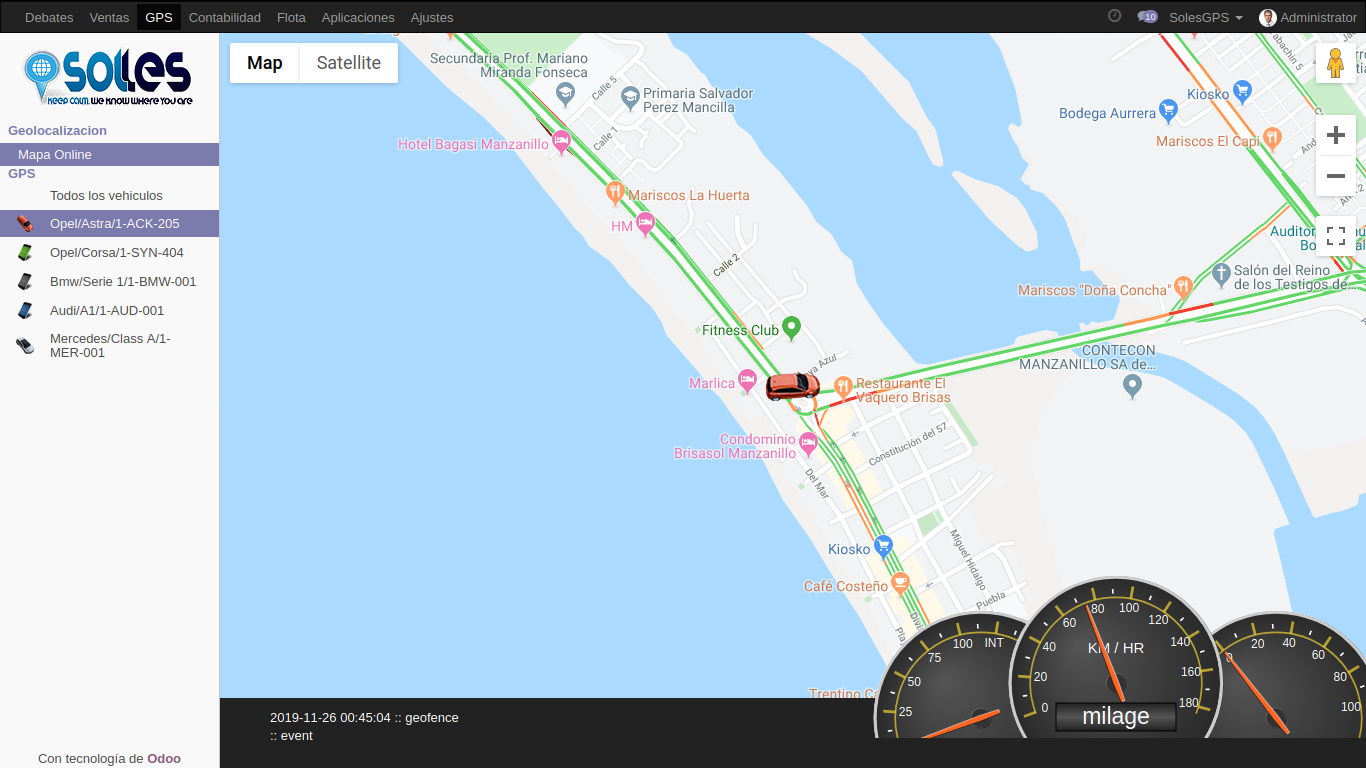
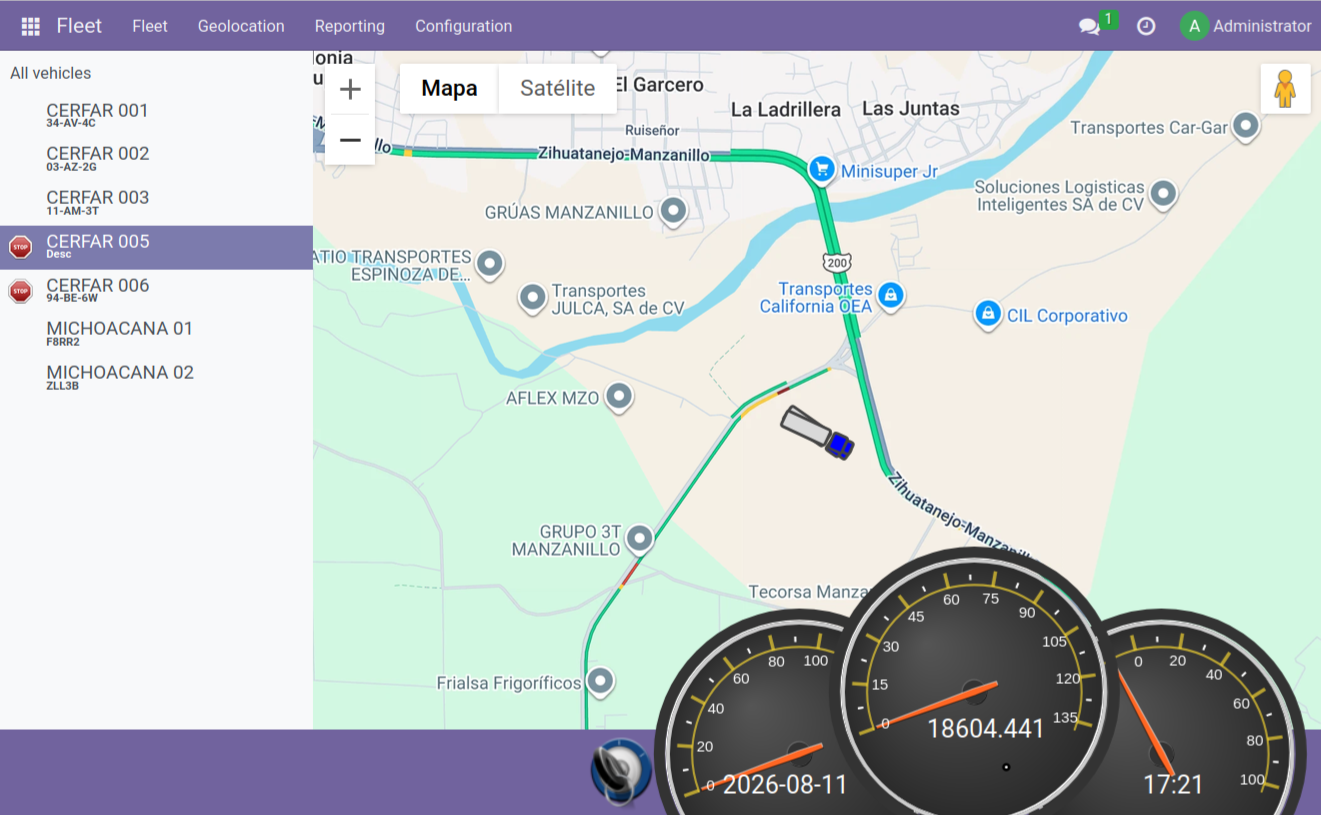
[UPD]gpsmap_geofence: htnl and images description

diff --git a/static/description/index.html b/static/description/index.html
@@ -1,58 +1,149 @@
-<section class="oe_container">
-    <div class="oe_row oe_spaced">
-        <h2 class="oe_slogan" style="color:#875A7B;">SolesGPS Map Online</h2>
-        <h3 class="oe_slogan">With this free module, see your GPS devices on the map, updating every minute.<br>
-            You can do a test with real GPS in the demo installation.</h3>
-        <div class="oe_span10">
-            <div style="text-align:center;" class="oe_demo oe_picture oe_screenshot">
-                <img src="map_online.png">
+<div style="color:#875A7B; font-size: 19px; font-weight: 380; text-align:justify; margin-left:100px; margin-right:100px;">
+    <div style="float: left;  width: 100%;">
+        <div style="margin-top:30px; font-size: 40px; font-weight: 400; text-align:justify;">
+            Vehicle tracking with GPSMap
+        </div>
+        <div style="margin-top:-13px; margin-bottom:20px;">
+            Transform Odoo into a powerful vehicle tracking and monitoring platform.
+        </div>
+        <div>
+            GPSMap integrates data from your GPS devices using Traccar as the communication platform, 
+            allowing you to view and manage all your fleet information, without navigating between 
+            multiple external platforms, all from a single location: your Odoo System.  
+        </div>
+        <div style="margin-top:10px;">
+            <img src="map_online.png" width="100%">
+        </div>
+    </div>
+    <div style="float: left;  width: 100%;">
+        <div style="margin-top:30px; font-size: 40px; font-weight: 400; text-align:justify;">
+            Map, Satellite and History View
+        </div>
+        <div style="margin-top:-13px; margin-bottom:20px;">
+            Much more than just a map: we have integrated Traccar functionality into Odoo.
+        </div>
+        <div>
+            Integrate fleet tracking using all our modules to locate your vehicles on a map(gpsmap), 
+            access interactive street views(gpsmap_street), manage geofences(gpsmap_geofence), 
+            review and replay historical routes(gpsmap_history), control engine cut-offs (gpsmap_engine), 
+            and access all critical information through a single interface: Odoo.
+        </div>
+        <div style="margin-top:10px;">
+            <div style="width: min(32%, 100%); float:inline-start; margin: 5px;"><img src="map_online.png" width="100%"> </div>
+            <div style="width: min(32%, 100%); float:inline-start; margin: 5px;"><img src="map_satellite.png" width="100%"> </div> 
+            <div style="width: min(32%, 100%); float:inline-start; margin: 5px;"><img src="map_history.png" width="100%"> </div>  
+        </div>
+    </div>
+    <div style="margin-top:30px; float: left; width: 100%;">
+        <div style="width: 49%; float:left; text-align:right; padding: 25px 5px;">
+            <div style="background-color: #eee; padding: 25px;">
+
+                <div style="font-size: 40px; font-weight: 400; ">
+                    Minute-by-minute
+                </div>
+                <div style="margin-top:-13px; margin-bottom:20px;">
+                    Check the data and make decisions quickly.
+                </div>
+                <div>
+
+                Current GPS position and movement < <br>
+                Routes taken and travel paths < <br>
+                Date, time, and vehicle status < <br>
+                Recorded GPS speed < <br>
+                Historical device data <             
+                    
+                </div>
+
+            </div>
+
+        </div>
+        <div style="width: 49%; float:left; text-align:left; padding: 25px 5px;">
+            <div style="background-color: #eee; padding: 25px;">
+
+                <div style="font-size: 40px; font-weight: 400; ">
+                    Requirements
+                </div>
+                <div style="margin-top:-13px; margin-bottom:20px;">
+                    Only those necessary for the module to function.
+                </div>
+                <div>
+                    > Odoo fleet module<br>
+                    > <a href="https://www.traccar.org/pricing/">Server or a Traccar access account</a>  <br>
+                    > <a href="https://www.traccar.org/devices/">GPS devices compatible with Traccar</a>  <br>
+                    > <a href="https://console.cloud.google.com/apis/credentials">Cloud Console account</a>  <br>
+                    > Enable Google Maps Platform APIs            
+                </div>
             </div>
         </div>
     </div>
-</section>
-
-<section class="oe_container oe_dark">
-    <div class="oe_row oe_spaced">
-        <h2 class="oe_slogan" style="color:#875A7B;">Map View and Satellite View</h2>
-        <div class="oe_span6">
-            <img class="oe_picture oe_screenshot" src="map_devices.png">
+    <div style="margin-top:30px; float: left; width: 100%;">
+        <div style="margin-top:30px; font-size: 40px; font-weight: 400; text-align:justify;">
+            Why GPSMap Needs Traccar?
         </div>
-        <div class="oe_span6">
-            <img class="oe_picture oe_screenshot" src="map_satellite.png">
+        <div style="margin-top:-13px; margin-bottom:0px;">
+            We use it as a communication platform for your GPS devices.
+        </div>
+
+        <div style="width: 49%; float:left; text-align:right; padding: 25px 5px;">
+            <div style="background-color: #eee; padding: 25px;">
+
+                <div style="font-size: 40px; font-weight: 400; ">
+                    Traccar how it works?
+                </div>
+                <div style="margin-top:-13px; margin-bottom:20px;">
+                    The process is very simple:
+                </div>
+                <div>
+
+                    GPS Device → Traccar → GPSMap → Odoo<br><br>
+
+                    Your GPS device obtains vehicle information.<br>
+                    The GPS sends the data to Traccar.<br>
+                    Traccar receives and processes the information.<br>
+                    GPSMap connects to Traccar.<br>
+                    GPSMap stores the data in Odoo.<br>                    
+
+                </div>
+
+            </div>
+
+        </div>
+        <div style="width: 49%; float:left; text-align:left; padding: 25px 5px;">
+            <div style="background-color: #eee; padding: 25px;">
+
+                <div style="font-size: 40px; font-weight: 400; ">
+                    Don't have a Traccar?
+                </div>
+                <div style="margin-top:-13px; margin-bottom:20px;">
+                    Don't worry! We offer you two options
+                </div>
+                <div>
+                    > We set up your server.<br>
+                    We offer VPSs with Traccar installed and configured, 
+                    ready to work with your GPS devices.<br><br>
+
+                    > Hire Traccar directly.<br>
+                    You can obtain Traccar from its official website.<br>
+                    https://www.traccar.org
+
+                </div>
+            </div>
         </div>
     </div>
-</section>
 
-<section class="oe_container oe_dark">
-    <div class="oe_row oe_spaced">
-        <h2 class="oe_slogan" style="color:#875A7B;">Locate the satellite coordinates</h2>
-        <h3 class="oe_slogan">
-            Migrate your GPS devices and locate satellite coordinates with time, date, speed, fuel, etc.             
-        </h3>
-    </div>
-</section>
-
-<section class="oe_container oe_dark">
-    <div class="oe_row oe_spaced">
-        <h2 class="oe_slogan" style="color:#875A7B;">Video demo	</h2>
-        <div class="oe_span6">
-            <iframe width="560" height="315" src="https://www.youtube.com/embed/7Coa-3JJzQk" frameborder="0" allow="accelerometer; autoplay; encrypted-media; gyroscope; picture-in-picture" allowfullscreen></iframe>
+    <div style="text-align:center; float: left;  width: 100%;">
+        <div style="margin-top:20px; font-size: 40px; font-weight: 400;">
+            Contact us
         </div>
-    </div>
-</section>
-
-<section class="oe_container oe_dark">
-    <div class="oe_row oe_spaced">
-        <h2 class="oe_slogan" style="color:#875A7B;">Contact us</h2>
-        <h3 class="oe_slogan">
+        <div style="margin-top:-13px; margin-bottom:20px;">
             For any inquiries/suggestions/difficulties please contact us directly: 
             <br>Eduardo Vizcaino Granados
             <br>e.vizcaino@solesgps.com
-            <br>+52 (314) 352 0972
-            <br>+52 (312) 454 9998
-        </h3>
+            <br>+52 (314) 352 0972            
+        </div>
     </div>
-</section>
 
-<section class="oe_container oe_separator">
-</section>
+
+</div>
+
+
